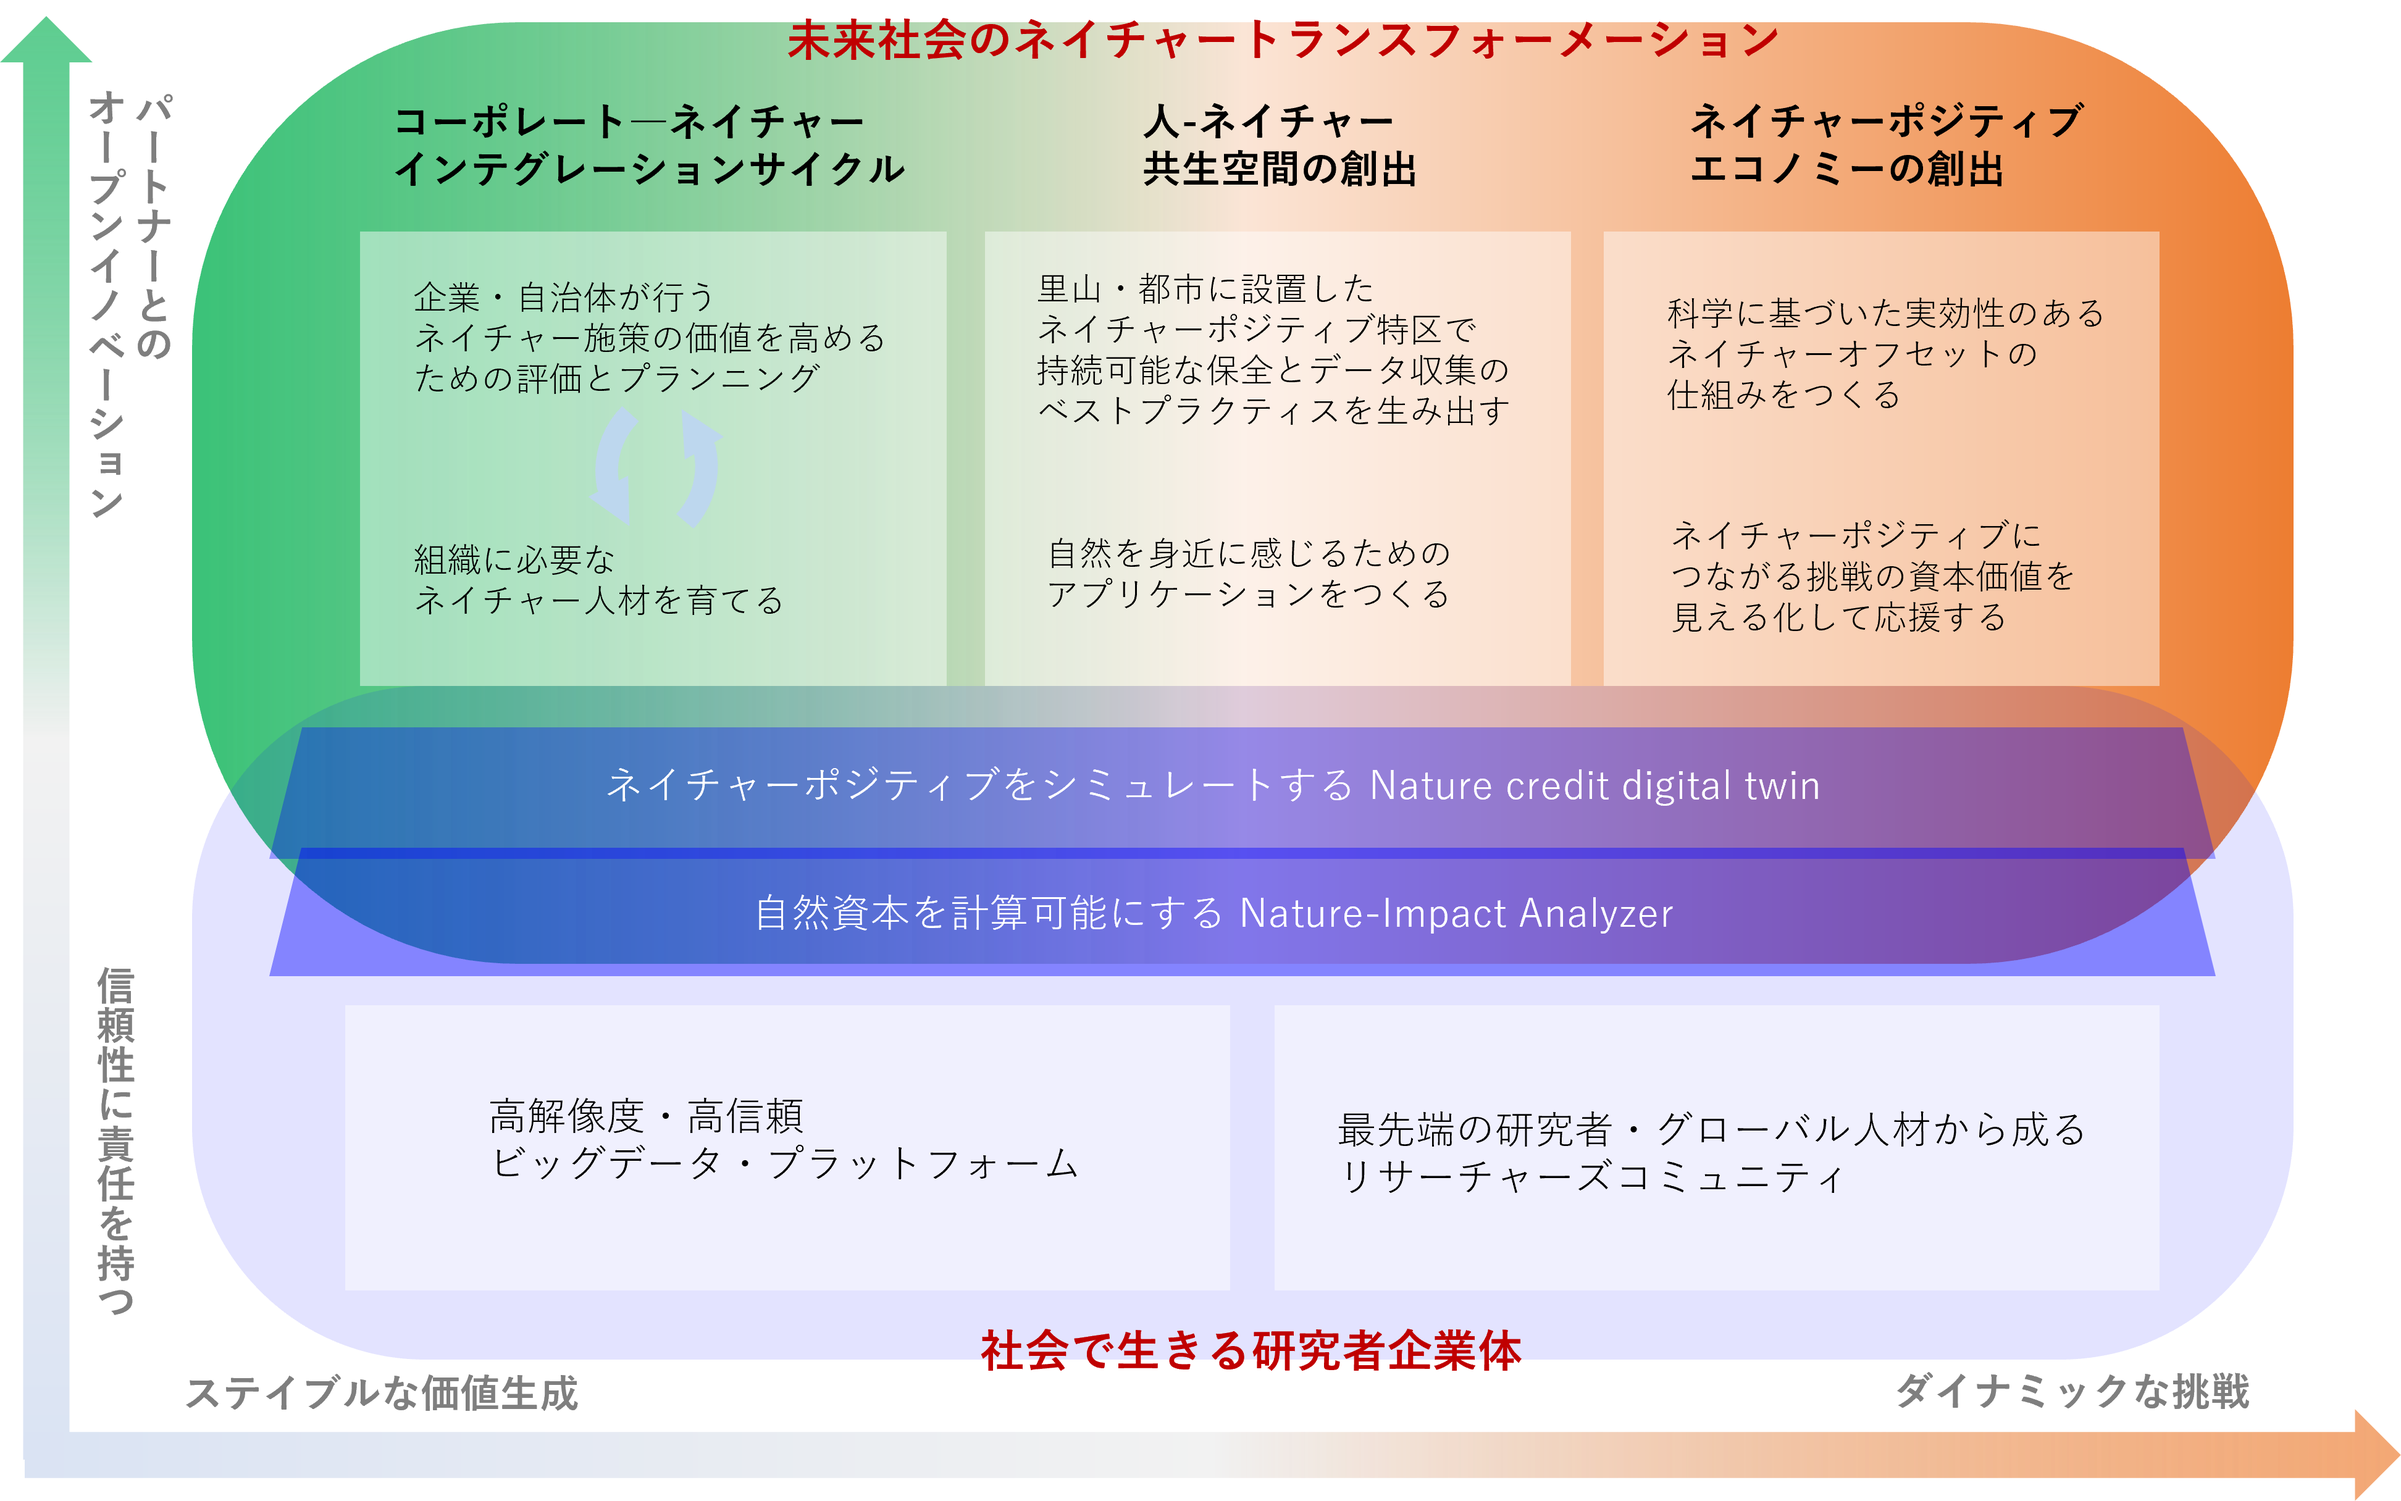
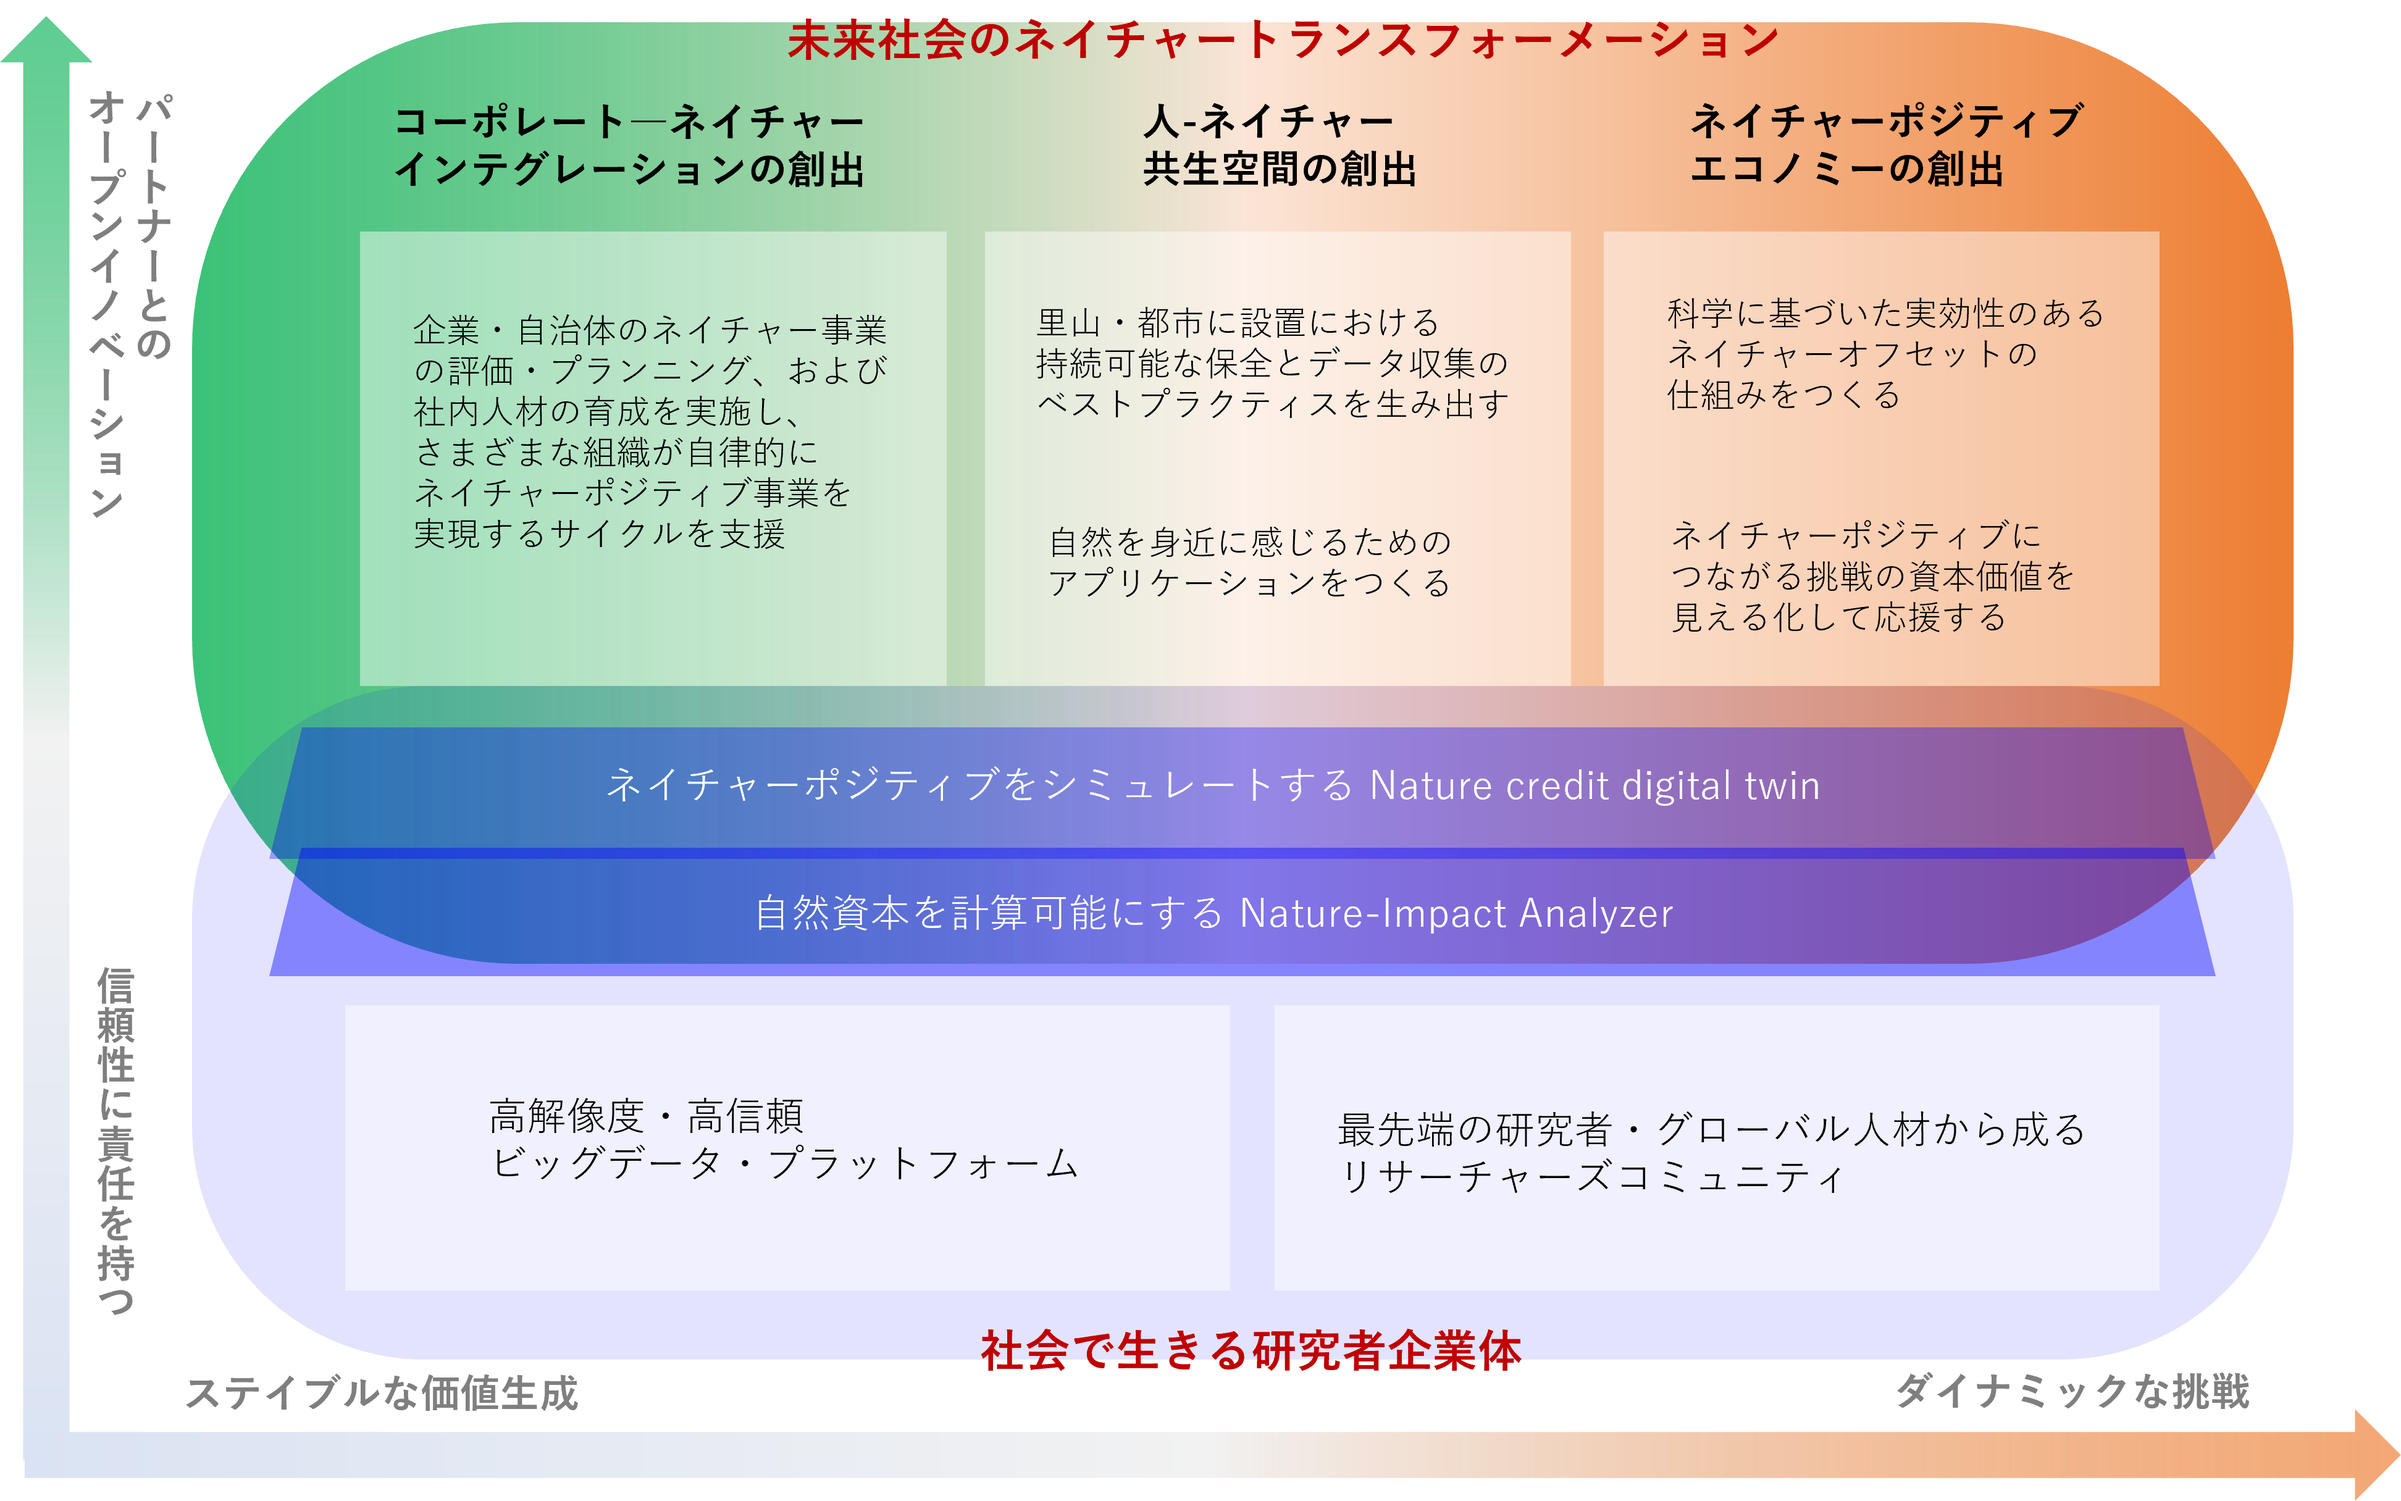
kaian

diff --git a/top.html b/top.html
@@ -1,15 +1,48 @@
 <title>トップページ</title>
 <b>トップページ</b><br><br>
+
+<font color="green">#3 遷移 メイン文言は以下（「自然史ビッグデータで 生態系を理解し、人間社会の持続可能性を高める」から差し替える）</font><br>
+未来社会のネイチャー・トランスフォーメーション
+生物多様性ビッグデータでネイチャーを計算可能にする
+ネイチャーと共創する人間社会の新たな価値創造
+<br>
+<br>
+
+<p>
+<font color="green"># その下の説明文</font><br>
+株式会社シンクネイチャーは，世界中の生物多様性データを蓄積し可視化する技術を世界に先駆けて開発しました。
+ある生き物がいつどこにいたのか、それぞれの生き物の特徴、系統(遺伝)という様々な情報を膨大な数まで積み上げたものが「生物多様性ビッグデータ」です。
+これら生物に関する膨大な情報を分析することで、ネイチャーを定量化し、計算することが可能になります。
+生物多様性情報などの自然史データは，これまで様々な場所で別々に蓄積されていたため，それらを統合して利用することは困難でした。
+シンクネイチャーは，生物の観察記録などを集積，さらにデータを浄化・強化する基礎技術の開発により，この問題を解決しました。
+私たちの使命は、このビッグデータを用いて、ネイチャーの持続的活用を行う仕組みを社会実装することです。
+</p>
+
+
 <ul>
-<li><a href="vision.html">ビジョン</a></li>
-<li><a href="biodata.html">生物多様性ビッグデータ</a></li>
-<li>サービス</li>
+<li><a href="vision.html">ビジョン Vision</a></li> <font color="green"># 主要な取り組みをこれに差し替える。NafureXポンチ絵（あるいはかっこいいイラスト？）と遷移先ページの一番上の文言だけトップページに表示し、他は別ページに飛んで見てもらう。Nature Impact Analyzer & Nature Credit Degital Twin は、具体的なソリューションやプロダクトではなく、技術に対する哲学だと認識しています。なので、ビジョンの所に入れるのがいいと思いました。</font><br>
+
+
+<li>事業概要 Business</li> <font color="green"># J-BMPやアラートは具体的なサービスと結びついているというよりは、ＴＮの実力を示す製品だと理解していたので、あくまで売っているのは各ソリューションであるという印象をどうにか与えたいと思っていました。そのためサービスを「ソリューション」と書くことにしました</font>
+<font color="green"># その下の説明文　顧客が地方自治体か、企業かによって欲している情報は明確に異なるので、早い段階で個別の説明サイトに移動してもらうことで、興味と違うことが書いてあるな…となるリスクを減らしたいと思います。そのためここは簡潔にしてみました。</font><br>
+シンクネイチャーは、生物多様性ビッグデータを用いた科学的分析により、企業や地方自治体のネイチャー関連事業をサポートします。
 <ul>
-<li><a href="jigyoinfo_kigyo.html">企業・民間団体向け</a></li>
-<li><a href="jigyoinfo_jichi.html">自治体向け</a></li>
+<li>ソリューション Solution</li>
+<ul>
+<li><a href="jigyoinfo_kigyo.html">企業・民間団体向けソリューション</a></li><font color="green"># トップページの主要サービス名01に相当。サムネイル画像＋遷移先ページの一番上の文言を説明に入れる。ソリューション01と02は同一ページにして、遷移先のページ位置を違えるようにするのもアリだと思います。</font>
+<li><a href="jigyoinfo_jichi.html">自治体向けソリューション</a></li> <font color="green"># トップページの主要サービス名02に相当。同上</font>
 </ul>
-<li><a href="kigyoinfo.html">企業情報</a></li>
+
+<li>データ基盤プロダクト Product</li> <font color="green"># 英語はPRODUCTとしつつ、日本語はデータ基盤という言葉を入れておき、これはあくまでソリューションを提供するベースの技術である、と認識してもらいたい</font><br>
+<ul>
+<li>J-BMP</li> <font color="green"># プロダクト01に相当。</font>
+<li>リスクアラート</li> <font color="green"># プロダクト02に相当</font>
+</ul>
+</ul>
+<li>実績</li>
+<li><a href="member.html">メンバー紹介</a></li>
 <li>採用情報</li>
+<li><a href="kigyoinfo.html">企業情報</a></li> <font color="green"># 企業としての信頼性を示すのに、あった方がいい情報だと思いました。この下ページ内にメンバー紹介がくるような構成でもいいと思います。</font>
 <li>お問い合わせ</li>
 </ul>
 

diff --git a/member.html b/member.html
@@ -1,0 +1,31 @@
+<p>
+<b>メンバー</b><br>
+
+<ul>
+<li>あああ</li>
+<li>いいい</li>
+<li>ううう</li>
+</ul>
+</p>
+
+このほかにも、シンクネイチャーは国際的な研究者のネットワークを有しています。
+
+<div>
+<p>
+<b>ネイチャーポジティブにグローバルで取り組む：国際連携ネットワーク</b>
+</p>
+<img src="pic1.png"
+     width="600"
+     height="400">
+<p>
+生物多様性に対する意識の高まりを背景に、世界各国では様々な研究や事業開発が行われています。
+これまでの共同研究を通して私たちが築いてきた国際連携ネットワークは様々な国と地域にまたがります。
+世界を分野をリードする研究者との共同を通して、世界各国の最新の動向を分析し、国内の活動に還元します
+</p>
+</div>
+
+<p>
+シンクネイチャーは、生物多様性ビッグデータを用いた様々なコラボレーションを募集しています。アイデアをお持ちの方は、お問い合わせフォームからご連絡ください。
+</p>
+
+

diff --git a/vision.html b/vision.html
@@ -15,7 +15,7 @@
 </p>
 
 <p>
-その実現のため、コーポレート―ネイチャーインテグレーションサイクル，
+その実現のため、コーポレート―ネイチャーインテグレーション，
 人―ネイチャー共生空間，ネイチャーポジティブエコノミーという3つの目標を掲げています。
 </p>
 <img src="pic4.png"
@@ -81,14 +81,18 @@
 <ul>
 <li>MS&AD</li>
 <li>PwC</li>
-<li>積水</li>
+<li>積水ハウス</li>
 <li>サントリー</li>
-<li>データカタリスト</li>
-<li>30by30</li>
-<li>商船三井</li>
-<li>ソーシャルインパクト・リサーチ</li>
+<li>日本自然保護協会</li>
 </ul>
 
+
+<b>協業組織</b>
+<ul>
+<li>TNFDデータカタリスト</li>
+<li>30by30アライアンス</li>
+<li>商船三井</li>
+</ul>
 
 </div>
 

diff --git a/kigyoinfo.html b/kigyoinfo.html
@@ -15,10 +15,6 @@
 <ul>
 <li>2019年X月 設立</li>
 </ul>
-
 </p>
 
-<p>
-<b>メンバー紹介</b><br>
-<li>メンバー紹介</li>
-</p>
+
